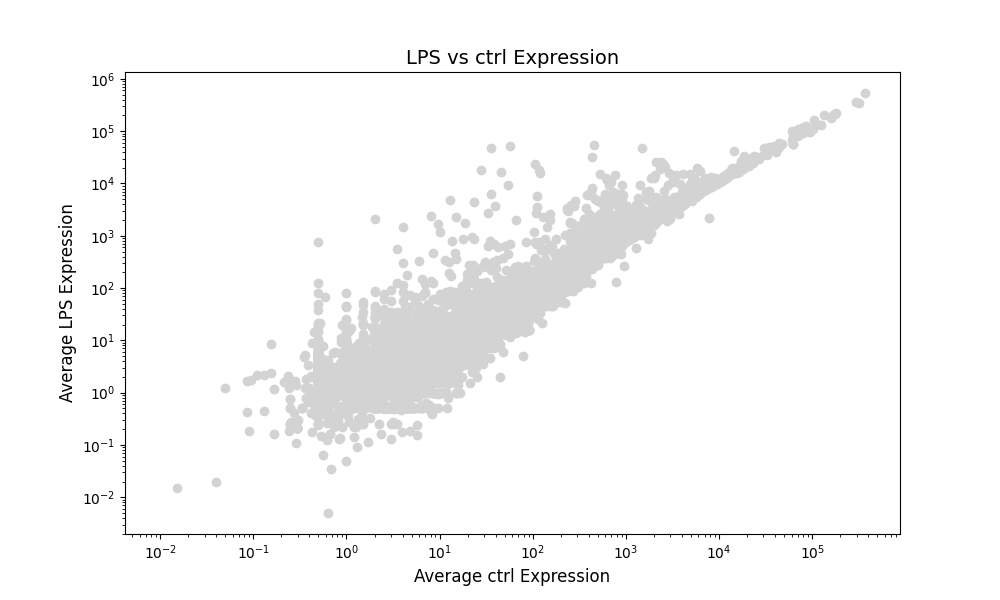
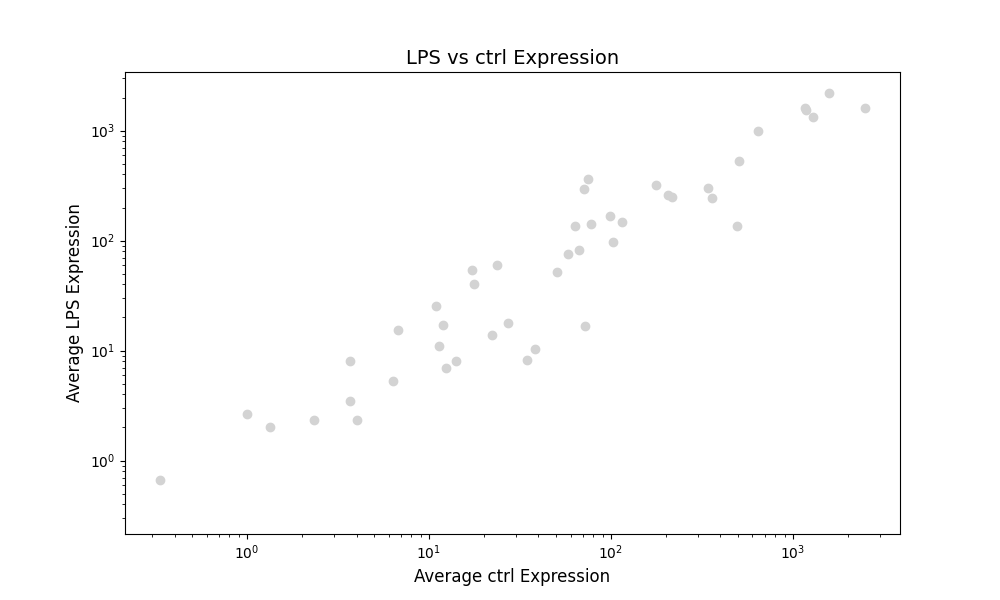
report sub directory fix

diff --git a/viafoundry/reports.py b/viafoundry/reports.py
@@ -90,7 +90,7 @@ class Reports:
 
     def get_file_names(self, report_data: dict, process_name: str) -> pd.DataFrame:
         """
-        Gets file names for a specific process.
+        Gets file names for a specific process, including files in nested directories.
 
         Args:
             report_data (dict): The report data containing file entries.
@@ -103,6 +103,7 @@ class Reports:
             RuntimeError: If extracting file names fails.
         """
         try:
+            # Find all entries for the given process
             processes = [
                 entry
                 for entry in report_data["data"]
@@ -110,9 +111,23 @@ class Reports:
             ]
             if not processes:
                 self._raise_error(603, f"Process '{process_name}' not found.")
-            files = pd.DataFrame(processes[0]["children"])
 
-            return files[
+            # Recursively collect all files from children
+            def collect_files(children):
+                files = []
+                for child in children:
+                    if child.get("extension") == "dir" and "children" in child:
+                        files.extend(collect_files(child["children"]))
+                    else:
+                        files.append(child)
+                return files
+
+            all_files = collect_files(processes[0].get("children", []))
+
+            if not all_files:
+                self._raise_error(604, f"No files found for process '{process_name}'.")
+
+            return pd.DataFrame(all_files)[
                 [
                     "id",
                     "processName",
@@ -147,6 +162,7 @@ class Reports:
         """
         try:
             files = self.get_all_files(json_data)
+            print(file_path)
             file_details = files[files["file_path"] == file_path]
             file_name = os.path.basename(file_path)
 
@@ -221,7 +237,7 @@ class Reports:
 
     def get_all_files(self, report_data: dict) -> pd.DataFrame:
         """
-        Extracts all files across all processes for a specific report.
+        Extracts all files across all processes for a specific report, including files in nested directories.
 
         Args:
             report_data (dict): JSON data containing the report.
@@ -234,15 +250,26 @@ class Reports:
         """
         try:
             all_files = []
+
+            def collect_files(children, process_name):
+                files = []
+                for child in children:
+                    child["processName"] = process_name
+                    if child.get("extension") == "dir" and "children" in child:
+                        files.extend(collect_files(child["children"], process_name))
+                    else:
+                        files.append(child)
+                return files
+
             for entry in report_data["data"]:
                 process_name = entry.get("processName")
-                for child in entry.get("children", []):
-                    child["processName"] = process_name
-                    all_files.append(child)
+                if "children" in entry and isinstance(entry["children"], list):
+                    all_files.extend(collect_files(entry["children"], process_name))
 
             if not all_files:
                 self._raise_error(611, "No files found in the report.")
-
+            else:
+                logging.info(f"Found {len(all_files)} files in the report.")
             return pd.DataFrame(all_files)[
                 [
                     "id",
